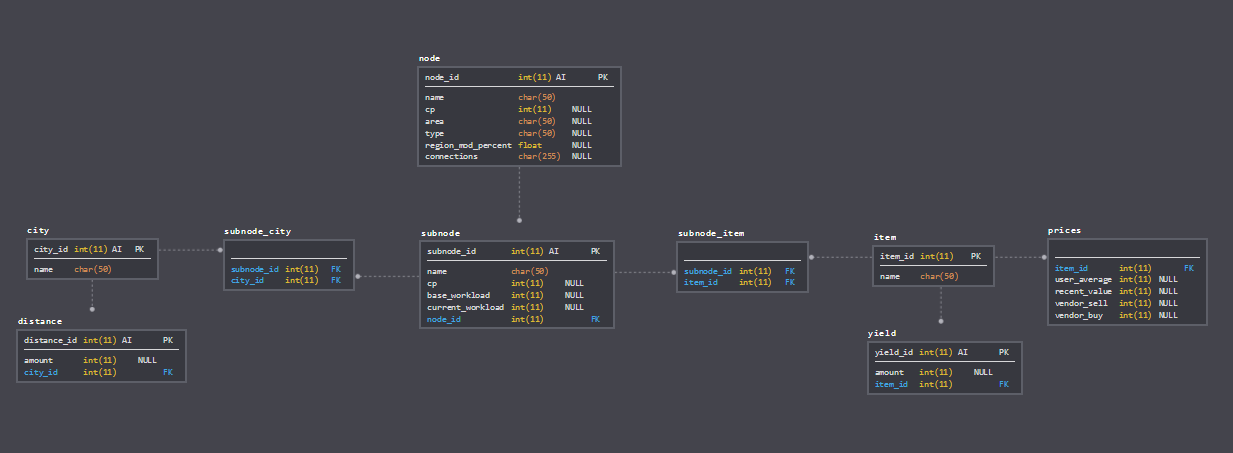
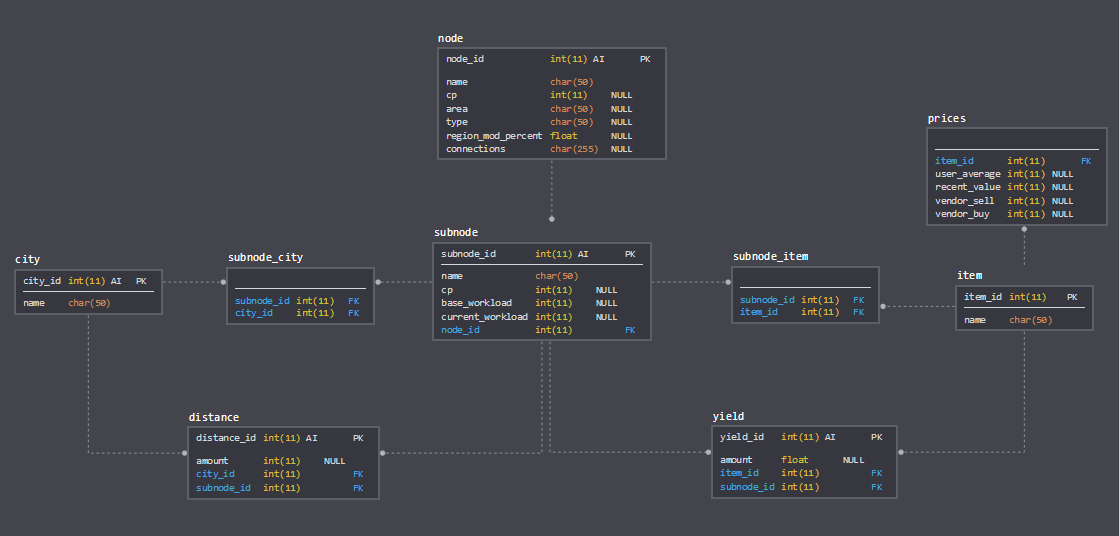
Schema/data
Updated new schema image and uploaded SQL data file

diff --git a/_site/projects/BDO_Optimization/webscrape/index.html b/_site/projects/BDO_Optimization/webscrape/index.html
@@ -35,6 +35,8 @@
       <h1 id="schema">Schema</h1>
 <center><img src="schema.PNG" /></center>
 
+<h3 id="sql-data"><a href="/projects/BDO_Optimization/webscrape/bdodae_new.sql">SQL data</a></h3>
+
 <h1 id="web-scraping">Web Scraping</h1>
 <p>I web scraped the website <a href="https://www.bdodae.com/">bdodae.com</a> for data to use for my project. Since I am optimizing profits I need item values and information about the nodes.</p>
 
